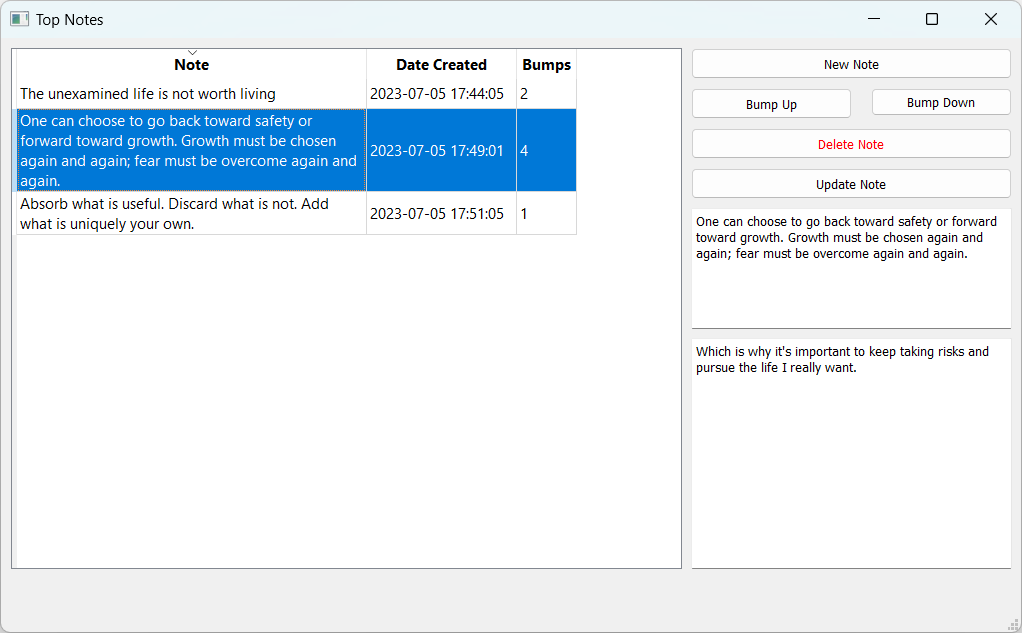
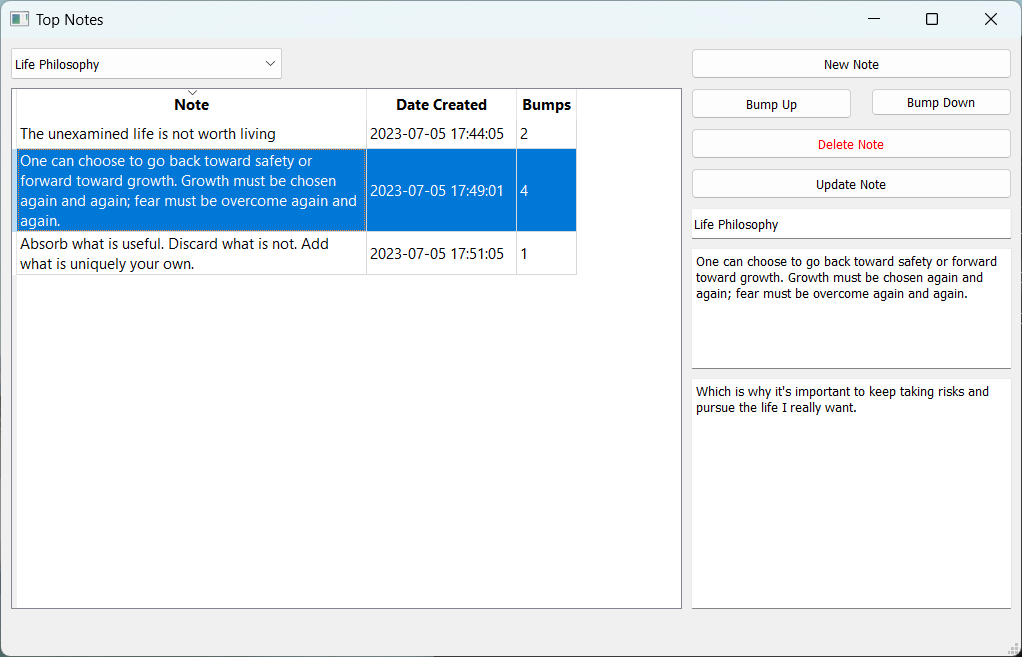
Updated the readme

diff --git a/README.md b/README.md
@@ -2,10 +2,10 @@
 
 ![A screenshot showcasing what Top-Notes looks like](screenshot.png "Top-Notes example screenshot")
 
-Top-Notes is a simple note-storage application that also lets you add some extra detail to your notes and keep track of how you score said notes, making it easier to keep track of which notes you have found most useful for yourself in the long term.
+Top-Notes is a simple note-storage application that also lets you add some extra detail to your notes, categorize them and score them based on how you value them. This all makes it easy for you to track which ideas you have found most useful in the long term.
 
 The notes are stored in `~\Documents\top-notes\notes.db`
 
 To create a shortcut in Windows:
-1. make sure its `Start in` field corresponds to your Top-Notes folder
+1. Make sure its `Start in` field corresponds to your Top-Notes folder
 2. Set the `Target` field to `C:\Windows\pyw.exe main.py`
